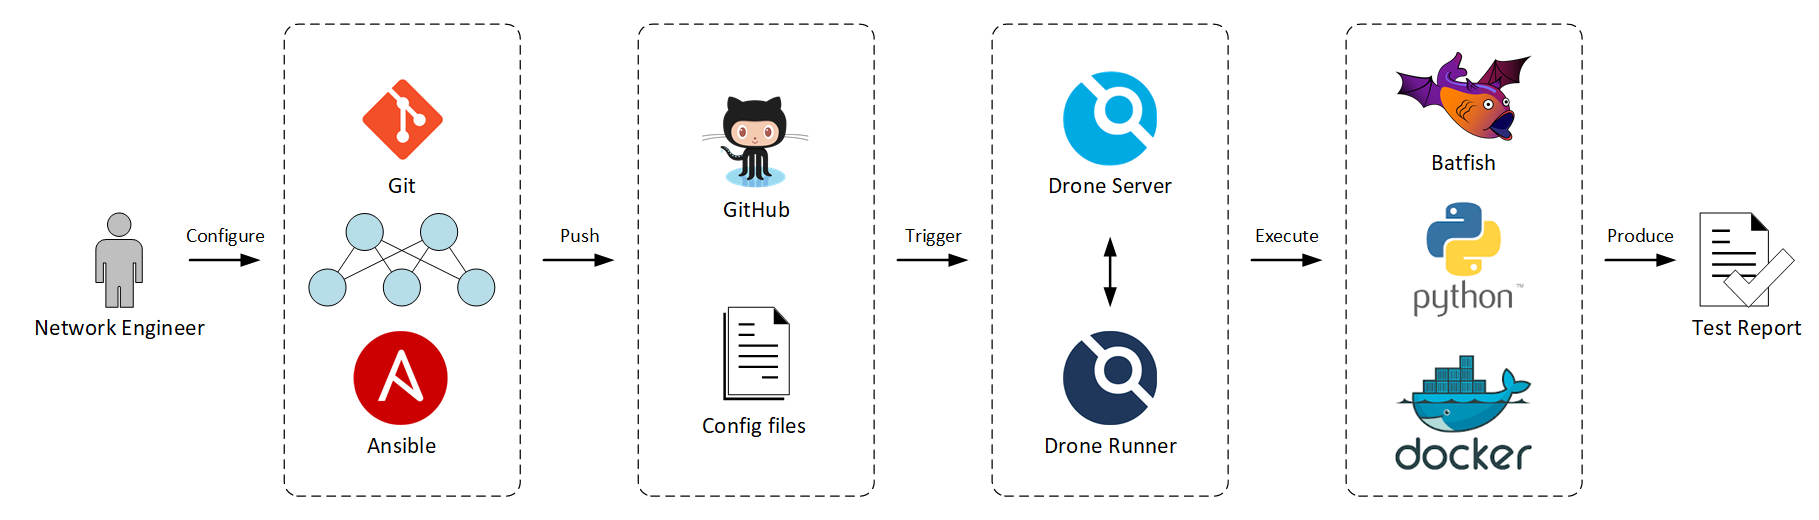
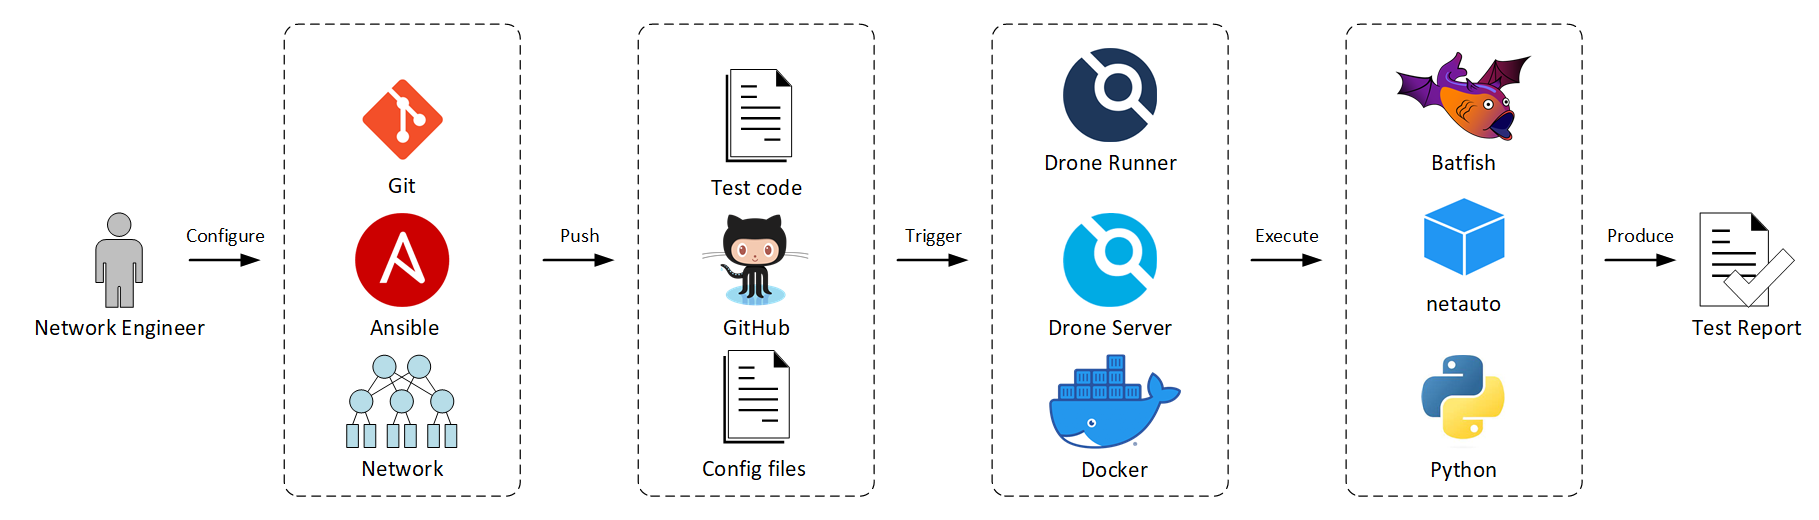
update pipeline image

diff --git a/README.md b/README.md
@@ -78,20 +78,35 @@ This network validation process applies some CI/CD principles to check device co
 ![Pipeline](img/pipeline.png)
 
 - [Ansible](https://www.ansible.com/) — Network automation tool (based on Python):
+
   Ansible is used to automate the configuration of network devices as well at retrieve the configuration files in preparation for the configuration check.
+
 - [Batfish](https://www.batfish.org/) — Network configuration analysis tool (based in Python):
+
   Batfish performs vendor-independent validation of network configuration by answering several questions and comparing answers with expected results.   
+
 - [Docker](https://www.docker.com/) — Platform for building, deploying, and managing containerized applications:
+
   Docker runs several containers in the pipeline, including: Drone Server, Drone Runner, Batfish, and martimy/netauto.
+
 - [Drone](https://www.drone.io/) — Continuous integration platform:
+
   A Drone server manages the pipelines while one or more Drone runners poll the server for workloads to execute. The pipeline execution is triggered when a network configuration is pushed to the GitHub repository.
-- [Git](https://git-scm.com/) — Revision control system
-  Git tracks network configuration changes and pulls/pushes the configuration to a GitHub repository.  
-- [GitHub](https://github.com/) — Cloud-based Git repository
+
+- [Git](https://git-scm.com/) — Revision control system:
+
+  Git tracks network configuration changes and pulls/pushes the configuration to a GitHub repository.
+
+- [GitHub](https://github.com/) — Cloud-based Git repository:
+
   Hosts all test scripts, Ansible scripts, and Drone configuration file. GitHub is also used to push network configuration files to trigger the checking pipeline.
+
 - [martimy/netauto](https://hub.docker.com/r/martimy/netauto) — Docker image:
+
   This is Python container that includes all modules needed to run the test scripts.
+
 - [Python](https://www.python.org/) — Programming language for network applications:
+
   All test software is written in Python, including scripts that run tests that are not available in Batfish.
 
 ## Acknowledgments
@@ -99,5 +114,4 @@ This network validation process applies some CI/CD principles to check device co
 The development of this pipeline follows the examples and the tutorials included in:
 
 [1] “Building a Network CI/CD Pipeline Part 1,” Welcome to the World of Tomorrow, Oct. 20, 2021. https://juliopdx.com/2021/10/20/building-a-network-ci/cd-pipeline-part-1/ (accessed Nov. 14, 2022).
-
 [2] Packet Coders. https://www.packetcoders.io/tag/blog/ (accessed Nov. 14, 2022).
